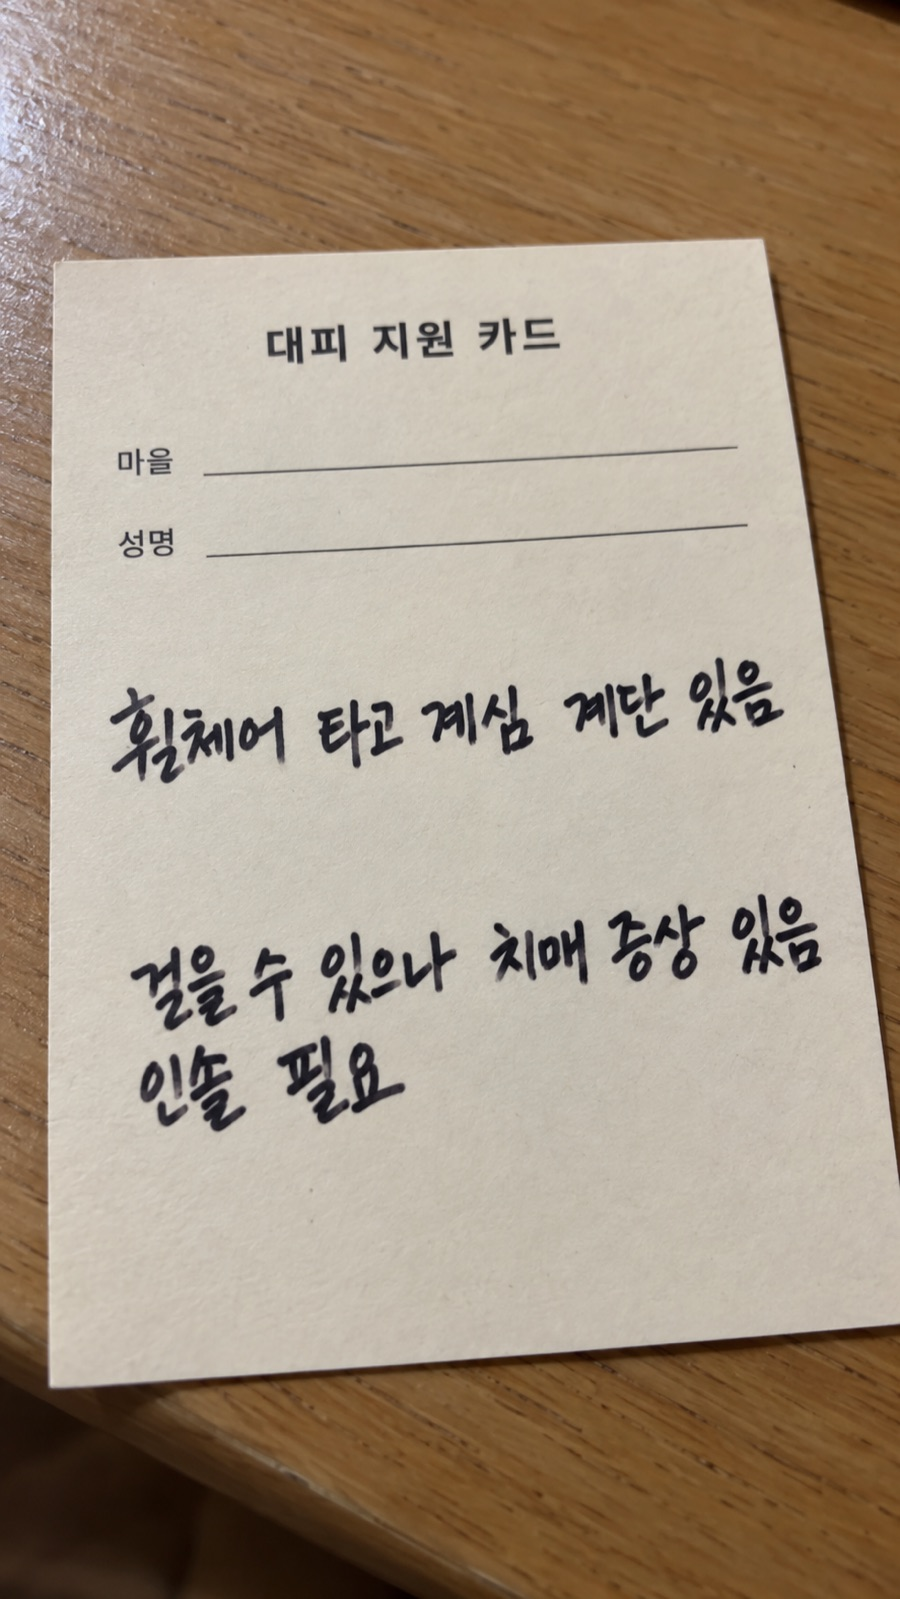
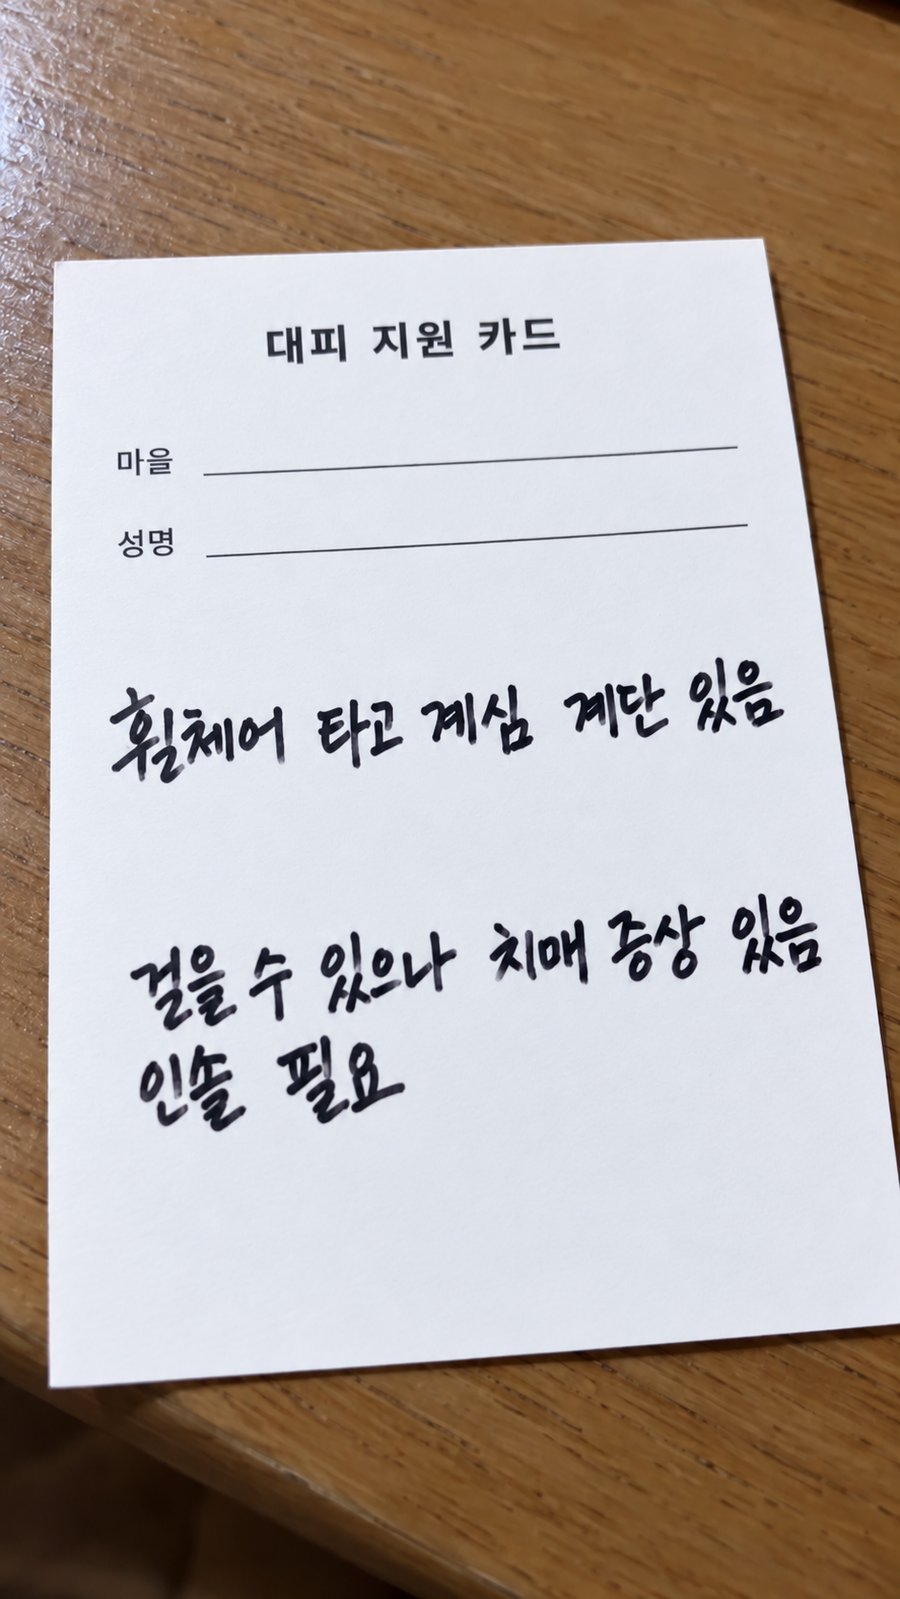
서류 샘플 세 장을 요즘 흰 종이로 바꾸고 근거 상자 위치 맞춤

diff --git a/client/src/mock/seed.js b/client/src/mock/seed.js
@@ -292,7 +292,7 @@ function intakeDocs() {
       image: '/images/intake/card-bs01.jpg', uploadedAt: at, status: 'pending',
       transcript: '대피카드 북삼동 지흥동 거동 상태 침대에서 거의 못 일어나심 기저귀 사용 딸 연락 필요',
       results: [
-        { personCode: 'BS-01-901', grade: 'bed', tags: ['bedridden', 'guardian'], quote: '침대에서 거의 못 일어나심', confidence: 'low', box: [8, 51, 82, 13] }
+        { personCode: 'BS-01-901', grade: 'bed', tags: ['bedridden', 'guardian'], quote: '침대에서 거의 못 일어나심', confidence: 'low', box: [9, 50, 79, 15] }
       ]
     },
     {
@@ -313,8 +313,8 @@ export const SAMPLE_UPLOAD = {
   kind: 'card', name: '어달동 대피카드', villageCode: 'MH-02', image: '/images/intake/card-mh02.jpg',
   transcript: '대피카드 묵호동 어달동 거동 상태 휠체어 타고 계심 계단 있음 혼자 사심 거동 상태 걸을 수 있으나 치매 증상 있음 인솔 필요',
   results: [
-    { personCode: 'MH-02-911', grade: 'wheelchair', tags: [], quote: '휠체어 타고 계심 계단 있음', confidence: 'high', box: [11, 42, 77, 8] },
-    { personCode: 'MH-02-912', grade: 'walk', tags: ['dementia'], quote: '걸을 수 있으나 치매 증상 있음 인솔 필요', confidence: 'mid', box: [13, 56, 78, 16] }
+    { personCode: 'MH-02-911', grade: 'wheelchair', tags: [], quote: '휠체어 타고 계심 계단 있음', confidence: 'high', box: [10, 40, 80, 10] },
+    { personCode: 'MH-02-912', grade: 'walk', tags: ['dementia'], quote: '걸을 수 있으나 치매 증상 있음 인솔 필요', confidence: 'mid', box: [12, 55.5, 81, 16.5] }
   ]
 }
 
